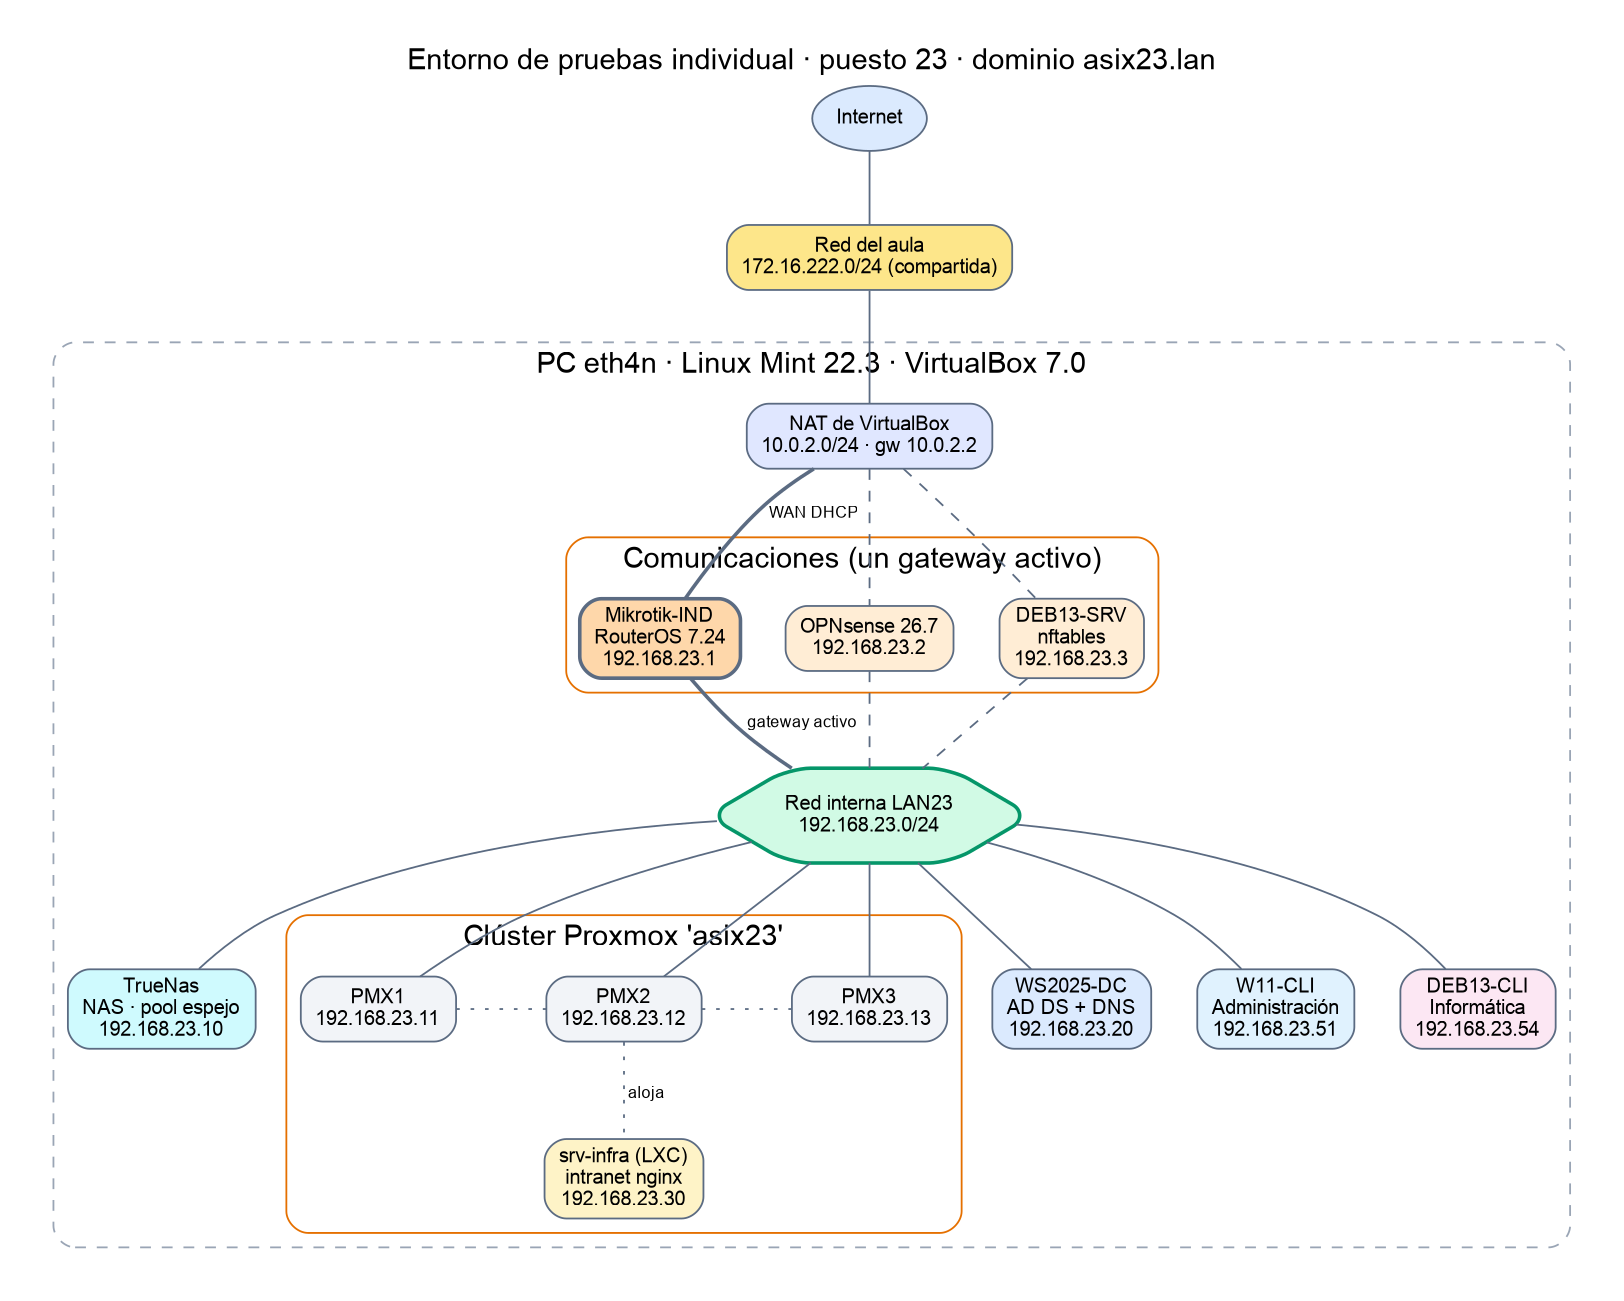
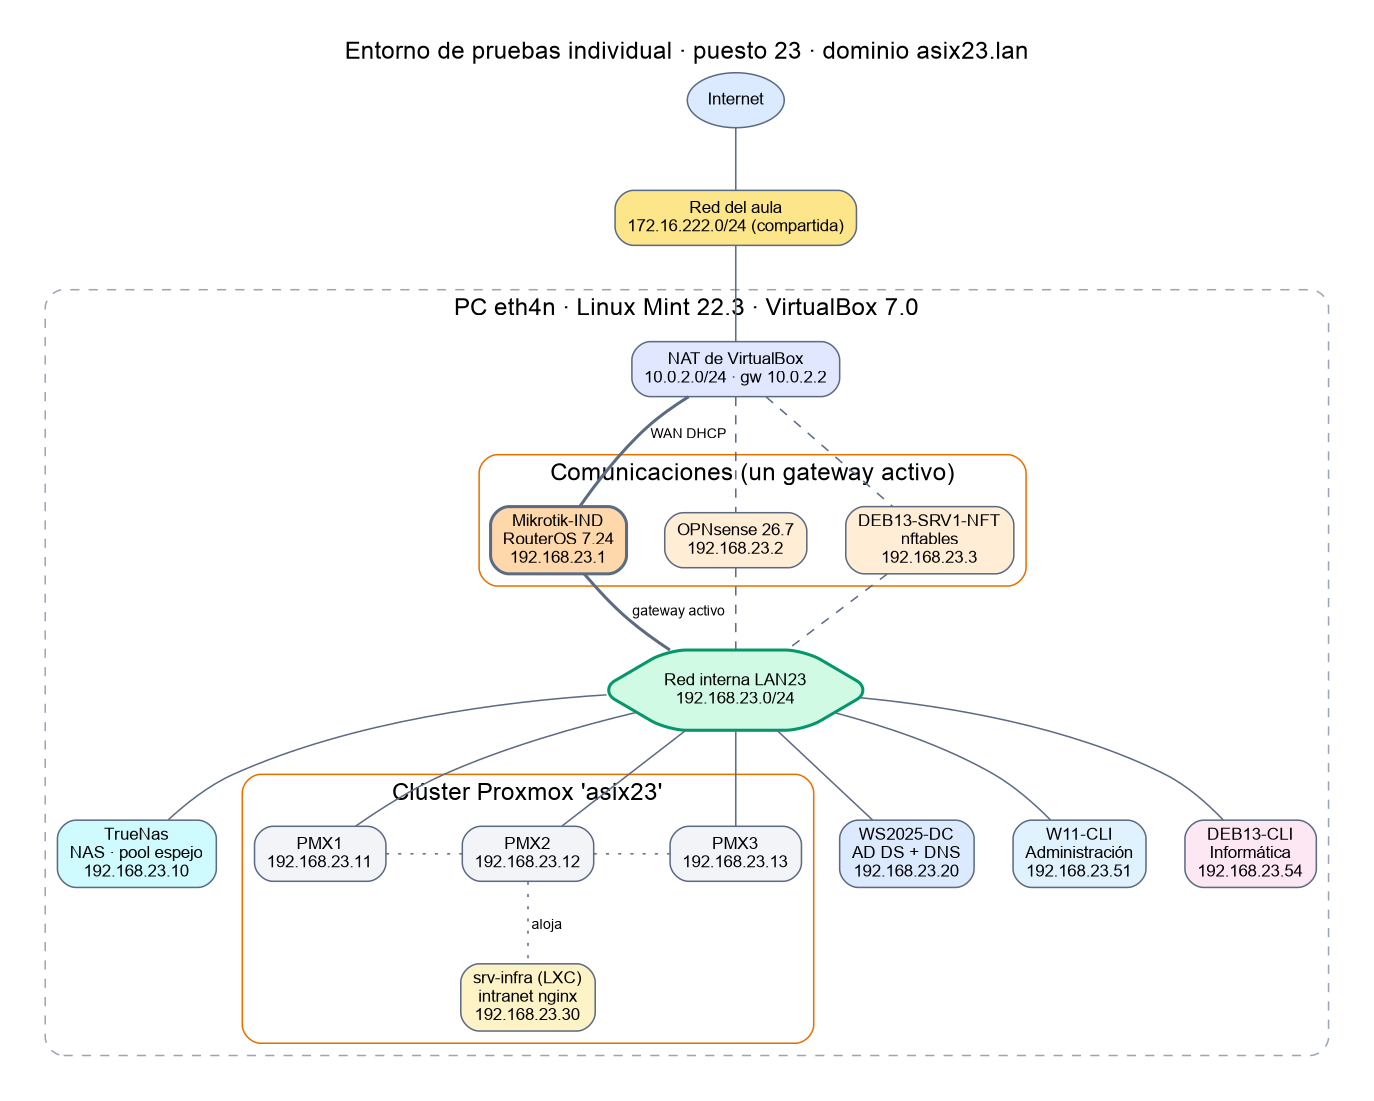
Plan de contingencia con tiempos reales; DEB13-SRV pasa a DEB13-SRV1-NFT y nuevas DEB13-SRV2/SRV3 en el direccionamiento

diff --git a/docs/09-contingencia.md b/docs/09-contingencia.md
@@ -1,11 +1,63 @@
 # 09 · Plan de contingencia
 
-Estado: ⬜ pendiente
+Estado: 🟡 en curso (falta añadir el tiempo real del fallo de disco del RAID, Tasca 6)
+
+## 1. Conceptos
+
+| Término | Qué significa | Ejemplo en mi sistema |
+|---|---|---|
+| **RTO** (*Recovery Time Objective*) | Tiempo máximo que puede estar parado un servicio | Internet: 5 min |
+| **RPO** (*Recovery Point Objective*) | Cuántos datos (medidos en tiempo) se pueden perder como máximo | Configuración de los routers: 24 h (copia diaria) |
+| **Tiempo real** | Lo que **medimos** al provocar el fallo | MikroTik: 26 s sin Internet en el cliente |
+
+> **Pregunta probable de defensa:** *"¿Qué diferencia hay entre RTO y RPO?"* → El RTO mira **hacia delante** (¿cuánto tardo en volver a funcionar?) y el RPO **hacia atrás** (¿desde cuándo pierdo cambios?). Una copia diaria da un RPO de hasta 24 h aunque la recuperación tarde solo segundos.
+
+## 2. De dónde salen las copias
+
+| Origen | Qué se copia | Cuándo | Destino | RPO resultante |
+|---|---|---|---|---|
+| MikroTik, DEB13-SRV1-NFT, OPNsense | Configuración (`.backup`/`.rsc`, `/etc`, `config.xml`) | Cron de TrueNAS **diario 02:00** (`scripts/copia-configs.sh`) | NAS `/mnt/copias/configs/` | 24 h |
+| OPNsense (además) | Historial local de `config.xml` | **En cada cambio** | El propio OPNsense | ≈ 0 (último cambio) |
+| Proxmox (CT 100, VM 101) | Imagen completa (`vzdump`) | Tarea **diaria 02:30**, se guardan 3 | `nas-copias` (NFS del NAS) | 24 h |
+| WS2025-DC | Base de datos de AD + SYSVOL (`ntdsutil ifm`) | Manual (`scripts/windows/copia-ad.ps1`) | NAS `/mnt/copias/configs/ws2025-dc/` | Desde la última ejecución manual |
+| TrueNAS | Las propias copias | Siempre (pool **espejo** `copias`) | 2 discos | 0 frente a fallo de **un** disco |
+
+## 3. Escenarios
 
 | Escenario | Función afectada | RTO objetivo | RPO objetivo | Tiempo real | Pérdida real | ¿Probado o 🧪 simulado? |
 |---|---|---|---|---|---|---|
-| Cliente | | | | | | |
-| Servidor virtual | | | | | | |
-| Host | | | | | | |
-| Comunicaciones | | | | | | |
-| Almacenamiento | | | | | | |
+| **Comunicaciones** — MikroTik con la configuración borrada | Internet de toda la LAN | 5 min | 24 h | **26 s** sin servicio | 0 | ✅ Probado ([mikrotik §7](06-installacio/mikrotik.md)) |
+| **Comunicaciones** — DEB13-SRV1-NFT con nftables roto + reinicio | Internet (router alternativo) | 5 min | 24 h | **21 s** | 0 | ✅ Probado ([debian-srv §7](06-installacio/debian-srv.md)) |
+| **Comunicaciones** — OPNsense con una regla errónea | Internet (router alternativo) | 5 min | último cambio | **15 s** | 0 | ✅ Probado ([opnsense §8](06-installacio/opnsense.md)) |
+| **Comunicaciones** — router activo totalmente caído | Internet | 5 min | — | Cambio de gateway con `scripts/canvi-gw.sh` a `.2` o `.3` | 0 | ✅ Probado (gateways intercambiables, [04-disseny](04-disseny.md)) |
+| **Servidor virtual** — mantenimiento de un nodo Proxmox | Intranet (CT `srv-infra`) | 2 min | 0 | VM: **8 ms** de corte (migración en caliente) · CT: **~84 s** | 0 | ✅ Probado ([proxmox §8](06-installacio/proxmox.md)) |
+| **Servidor virtual** — se cae un nodo del clúster | Gestión del clúster | Inmediato | 0 | El clúster sigue con quórum **2 de 3** | 0 | ✅ Probado (quórum) · 🧪 restaurar la VM desde `vzdump` en otro nodo |
+| **Servidor virtual** — VM que no arranca (error en `fstab`) | Servidor Linux | 30 min | 0 | Diagnosticado y resuelto con el método síntoma → hipótesis → comprobación | 0 | ✅ Probado ([10-incidencies](10-incidencies.md)) |
+| **Servidor** — DC de Windows perdido | Inicio de sesión del dominio, DNS | 1 h | Última copia IFM | — | Cambios en AD desde la copia | 🧪 Simulado (copia IFM hecha y verificada en el NAS) |
+| **Cliente** — W11-CLI o DEB13-CLI estropeado | Puesto de un departamento | 1 h | 0 en datos del servidor | — | Solo lo guardado en local | 🧪 Simulado: reinstalar desde ISO y volver a unir al dominio; los datos viven en el servidor |
+| **Host** — el PC anfitrión se rompe | **Todo** el sistema (punto único de fallo) | 1 día | 24 h | — | Hasta 24 h | 🧪 Simulado: otro PC con VirtualBox + copias del NAS. En la empresa real: varios hosts físicos y el NAS fuera del host |
+| **Almacenamiento** — falla un disco del NAS | Copias de seguridad | 0 (sigue funcionando) | 0 | — | 0 | 🧪 Simulado: espejo `copias` (ZFS mirror) |
+| **Almacenamiento** — falla un disco de un RAID 1/5 | Datos del servidor de ficheros | 0 (modo degradado) | 0 | ⬜ Pendiente (Tasca 6, mdadm) | ⬜ | ⬜ Se probará |
+
+## 4. Procedimiento general ante un fallo
+
+1. **Detectar**: síntoma desde un cliente (`ping`, `curl`, no hay Internet, no inicia sesión…).
+2. **Aislar**: ¿es la red, el servidor o el cliente? `ping` al gateway → al servidor → a Internet.
+3. **Recuperar** con la vía más rápida que exista:
+   - Copia **local** si la hay (historial de OPNsense, `copia-nas.backup` en el MikroTik).
+   - Si no, copia del **NAS**.
+   - Si el equipo no vuelve: **router alternativo** (`canvi-gw.sh`) o **migrar** el servicio a otro nodo.
+4. **Verificar** desde el cliente (Internet, servicio, inicio de sesión).
+5. **Documentar** en `10-incidencies.md`: hora, causa, solución y tiempo real.
+
+## 5. Lecciones aprendidas
+
+- **Una copia que no se puede alcanzar no sirve**: en el primer intento del MikroTik, la copia estaba en el NAS, pero al NAS se llegaba *a través* del propio router roto. Solución: guardar también una copia **en el propio equipo** y tener un camino alternativo (WAN).
+- **Un espejo no es una copia**: protege de un disco roto, no de un borrado o un ransomware.
+- **El host es el punto único de fallo** de todo el entorno de pruebas. En la empresa se reparte en varios equipos físicos (el clúster de 3 nodos y el NAS separados).
+
+## Preguntas probables de la defensa
+
+- *¿Por qué tu RPO es de 24 h si la recuperación tarda segundos?* → Porque la copia es diaria: si cambio algo a las 10:00 y el router muere a las 18:00, la última copia es la de las 02:00.
+- *¿Cómo bajarías el RPO?* → Copias más frecuentes o en cada cambio (como hace OPNsense con su historial).
+- *¿Qué escenario no has podido probar y por qué?* → La pérdida del host: rompería todo el entorno. Se explica cómo se haría.

diff --git a/docs/10-incidencies.md b/docs/10-incidencies.md
@@ -7,8 +7,8 @@ Registro de problemas reales que han aparecido al montar el entorno, con el mét
 | 1 | 17/11 | TrueNas | Al arrancar aparece el **instalador** de TrueNAS en vez del sistema | La ISO sigue conectada y el orden de arranque pone el DVD antes que el disco | El disco virtual ya ocupaba 3,5 GB → el sistema estaba instalado | Desconectar la ISO del lector (`storageattach ... --medium emptydrive`) | Arranca TrueNAS 25.10.7 desde el disco |
 | 2 | 17/11 | Mikrotik-IND | Mensaje *"ROUTER HAS NO SOFTWARE KEY — You have 21h…"* | RouterOS **x86** instalado desde ISO necesita licencia; sin ella es una demo de 24 h | Documentación de MikroTik + el propio mensaje: *"Turn off the device to stop the timer"* | Se mantiene la VM y **se apaga cuando no se usa**. Alternativa: CHR (licencia gratuita) | Router operativo; contador controlado |
 | 3 | 17/11 | Todas | `ping` a Internet desde las VMs no responde, pero sí funciona HTTPS | La NAT de VirtualBox no puede enviar ICMP porque el anfitrión no permite *ping sockets* sin privilegios | `sysctl net.ipv4.ping_group_range` = `1 0` (desactivado) en el anfitrión; DNS y `curl` sí funcionan | Usar `traceroute -T` (TCP). Solución definitiva (requiere sudo en el anfitrión): `sysctl -w net.ipv4.ping_group_range="0 2147483647"` | Conectividad demostrada por TCP |
-| 4 | 17/11 | DEB13-SRV | Tras pasar a LAN23, la WAN (`enp0s3`) no tiene IP y no hay Internet | El perfil de NetworkManager *Wired connection 1* se había quedado asociado a la otra tarjeta | `nmcli dev status`: `enp0s3` *desconectado*, `enp0s8` *obteniendo IP* | Perfil nuevo `WAN` (DHCP) en `enp0s3` y el antiguo renombrado a `LAN23` (IP fija) | Las dos interfaces con su IP |
-| 5 | 17/11 | DEB13-SRV / CLI | Al escribir comandos desde el anfitrión, `-` sale como `/` y `=` como `)` | La consola de texto usa teclado de EE. UU. y la herramienta tenía otra distribución | Escribir `a-b/c=d` y ver qué aparece en pantalla | Usar la distribución de EE. UU. al enviar teclas por `VBoxManage` | Comandos correctos |
+| 4 | 17/11 | DEB13-SRV1-NFT | Tras pasar a LAN23, la WAN (`enp0s3`) no tiene IP y no hay Internet | El perfil de NetworkManager *Wired connection 1* se había quedado asociado a la otra tarjeta | `nmcli dev status`: `enp0s3` *desconectado*, `enp0s8` *obteniendo IP* | Perfil nuevo `WAN` (DHCP) en `enp0s3` y el antiguo renombrado a `LAN23` (IP fija) | Las dos interfaces con su IP |
+| 5 | 17/11 | DEB13-SRV1-NFT / CLI | Al escribir comandos desde el anfitrión, `-` sale como `/` y `=` como `)` | La consola de texto usa teclado de EE. UU. y la herramienta tenía otra distribución | Escribir `a-b/c=d` y ver qué aparece en pantalla | Usar la distribución de EE. UU. al enviar teclas por `VBoxManage` | Comandos correctos |
 | 6 | 17/11 | WS2025-DC, W11-CLI | Pantalla negra *"Press any key to boot from CD or DVD…"* y después *"No bootable option"* | En UEFI, el instalador de Windows pide pulsar una tecla y nadie la pulsó | Captura de pantalla de la VM | Reiniciar la VM y enviar la tecla espacio repetidamente durante los primeros segundos | Instalación en marcha |
 | 7 | 17/11 | W11-CLI | El instalador se para en **"Clave de producto"** aunque es una instalación desatendida | El nuevo instalador de Windows 11 25H2 no lee igual el `autounattend.xml` de VirtualBox 7.0 | Captura: *"' ' no es un carácter válido"* | Borrar el campo y elegir *"No tengo clave de producto"* | La instalación continúa |
 | 8 | 17/11 | Anfitrión | `sudo` no funciona desde terminal | No hay terminal para pedir la contraseña | Error *"a terminal is required to read the password"* | Instalar `gh` sin sudo en `~/.local/bin`; lo que necesite root en el anfitrión lo ejecuta izan | `gh` 2.104.0 funcionando |

diff --git a/docs/04-disseny.md b/docs/04-disseny.md
@@ -21,7 +21,7 @@ flowchart TB
             subgraph COM["Comunicaciones (solo uno activo)"]
                 MK["Mikrotik-IND .1<br/>RouterOS"]
                 OPN["OPNsense .2"]
-                DEB["DEB13-SRV .3<br/>nftables"]
+                DEB["DEB13-SRV1-NFT .3<br/>nftables"]
             end
             NAS["TrueNas .10<br/>pool espejo 'copias'"]
             subgraph CL["Clúster Proxmox 'asix23'"]
@@ -60,7 +60,7 @@ Todo corre en **un solo equipo físico**: el portátil de clase (eth4n). Los "ca
  ┌──────────────────────────────────────────────────────────────┐
  │  NAT VBox ──[nic1]── Mikrotik-IND ──[nic2]──┐                 │
  │  NAT VBox ──[nic1]── OPNsense     ──[nic2]──┤                 │
- │  NAT VBox ──[nic1]── DEB13-SRV    ──[nic2]──┤                 │
+ │  NAT VBox ──[nic1]── DEB13-SRV1-NFT    ──[nic2]──┤                 │
  │                                             │                 │
  │                     ════ red interna LAN23 ═╪═══════════════  │
  │                     │      │      │      │      │      │      │
@@ -79,8 +79,8 @@ Todo corre en **un solo equipo físico**: el portátil de clase (eth4n). Los "ca
 | Mikrotik-IND | ether2 (LAN) | LAN23 | **192.168.23.1/24** | — | (servidor DNS para la LAN) | — | Fija |
 | OPNsense | em0 (WAN) | NAT | 10.0.2.15/24 | 10.0.2.2 | 10.0.2.3 | — | DHCP |
 | OPNsense | em1 (LAN) | LAN23 | **192.168.23.2/24** | — | Unbound (reenvío) | — | Fija |
-| DEB13-SRV | enp0s3 (WAN) | NAT | 10.0.2.15/24 | 10.0.2.2 | 10.0.2.3 | — | DHCP |
-| DEB13-SRV | enp0s8 (LAN) | LAN23 | **192.168.23.3/24** | — (`never-default`) | — | — | Fija |
+| DEB13-SRV1-NFT | enp0s3 (WAN) | NAT | 10.0.2.15/24 | 10.0.2.2 | 10.0.2.3 | — | DHCP |
+| DEB13-SRV1-NFT | enp0s8 (LAN) | LAN23 | **192.168.23.3/24** | — (`never-default`) | — | — | Fija |
 | TrueNas | enp0s3 | LAN23 | 192.168.23.10/24 | 192.168.23.1 | 192.168.23.1 | asix23.lan | Fija |
 | PMX1 | vmbr0 (nic0) | LAN23 | 192.168.23.11/24 | 192.168.23.1 | 192.168.23.1 | asix23.lan | Fija |
 | PMX2 | vmbr0 (nic0) | LAN23 | 192.168.23.12/24 | 192.168.23.1 | 192.168.23.1 | asix23.lan | Fija |

diff --git a/docs/05-recursos.md b/docs/05-recursos.md
@@ -10,7 +10,7 @@ Host de todas: **eth4n** (Linux Mint 22.3, Core Ultra 5 125H 14C/18T, 30 GiB RAM
 |---|---|---|---|---|---|---|---|
 | Mikrotik-IND | Comunicaciones · gateway .1 | RouterOS 7.24.5 x86 | 2 | 512 MB | 2 GB | NAT + LAN23 | BIOS |
 | OPNsense | Comunicaciones · .2 | OPNsense 26.7 | 2 | 2 GB | 20 GB | NAT + LAN23 | BIOS |
-| DEB13-SRV | Comunicaciones · .3 (nftables) | Debian 13 | 1 | 2 GB | 20 GB | NAT + LAN23 | BIOS |
+| DEB13-SRV1-NFT | Comunicaciones · .3 (nftables) | Debian 13 | 1 | 2 GB | 20 GB | NAT + LAN23 | BIOS |
 | TrueNas | NAS · .10 | TrueNAS SCALE 25.10.7 | 2 | 4 GB | 32 + 20 + 20 GB | LAN23 | BIOS |
 | PMX1 | Virtualización · nodo 1 · .11 | Proxmox VE 9.2 | 2 | 4 GB | 20 GB | LAN23 (promiscuo) | BIOS |
 | PMX2 | Virtualización · nodo 2 · .12 | Proxmox VE 9.2 | 2 | 4 GB | 32 GB | LAN23 (promiscuo) | BIOS |
@@ -41,7 +41,7 @@ Discos: **VDI de reserva dinámica** (solo ocupan lo que se usa). Ocupación rea
 | **A · Comunicaciones** | router activo (.1, .2 o .3) + DEB13-CLI + TrueNas | 9–10,5 GB | Pruebas de gateway, NAT, cortafuegos, copias |
 | **B · Dominio** | Mikrotik-IND + WS2025-DC + W11-CLI + TrueNas | 12,5 GB | AD DS, DNS, unión al dominio |
 | **C · Clúster** | Mikrotik-IND + PMX1 + PMX2 + TrueNas | 12,5 GB | Clúster, migraciones, contenedor |
-| **D · RAID / rendimiento** | Mikrotik-IND + DEB13-SRV + TrueNas | 6,5 GB | RAID con mdadm, medidas |
+| **D · RAID / rendimiento** | Mikrotik-IND + DEB13-SRV1-NFT + TrueNas | 6,5 GB | RAID con mdadm, medidas |
 | **E · Máximo** | Se van encendiendo hasta que el host sufre | — | Tasca 7: medir el límite real |
 
 ## Cuello de botella observado

diff --git a/README.md b/README.md
@@ -43,7 +43,7 @@ flowchart TB
     INET((🌍 Internet)) --- NAT[NAT de VirtualBox<br/>WAN por DHCP 10.0.2.15]
     NAT ==> MK[🔀 Mikrotik-IND<br/>RouterOS · <b>.1</b><br/>gateway activo]
     NAT -.-> OPN[🛡 OPNsense<br/><b>.2</b>]
-    NAT -.-> DEB[🐧 DEB13-SRV<br/>nftables · <b>.3</b>]
+    NAT -.-> DEB[🐧 DEB13-SRV1-NFT<br/>nftables · <b>.3</b>]
     MK ==> SW{{"🔌 LAN23 · 192.168.23.0/24"}}
     OPN -.-> SW
     DEB -.-> SW
@@ -69,7 +69,7 @@ flowchart TB
 |---|---|---|:---:|
 | `192.168.23.1` | Mikrotik-IND | RouterOS 7.24.5 · gateway por defecto · NAT + cortafuegos | ✅ |
 | `192.168.23.2` | OPNsense | OPNsense 26.7 · comunicaciones alternativo | ✅ |
-| `192.168.23.3` | DEB13-SRV | Debian 13 + nftables · comunicaciones alternativo | ✅ |
+| `192.168.23.3` | DEB13-SRV1-NFT | Debian 13 + nftables · comunicaciones alternativo | ✅ |
 | `192.168.23.10` | TrueNas | TrueNAS SCALE 25.10.7 · destino de las copias | ✅ |
 | `192.168.23.11` | PMX1 | Proxmox VE 9.2 · nodo 1 del clúster `asix23` | ✅ |
 | `192.168.23.12` | PMX2 | Proxmox VE 9.2 · nodo 2 del clúster `asix23` | ✅ |

diff --git a/docs/06-installacio/README.md b/docs/06-installacio/README.md
@@ -6,7 +6,7 @@
 |---|---|---|
 | MikroTik RouterOS (Mikrotik-IND) | [mikrotik.md](mikrotik.md) | ✅ |
 | OPNsense | [opnsense.md](opnsense.md) | ⬜ |
-| Debian SRV nftables (DEB13-SRV) | [debian-srv.md](debian-srv.md) | ✅ |
+| Debian SRV nftables (DEB13-SRV1-NFT) | [debian-srv.md](debian-srv.md) | ✅ |
 | TrueNAS | [truenas.md](truenas.md) | ✅ |
 | Proxmox VE (clúster PMX1 + PMX2) | [proxmox.md](proxmox.md) | ✅ |
 | Windows Server 2025 (WS2025-DC) | [windows-server.md](windows-server.md) | ✅ |

diff --git a/docs/06-installacio/debian-srv.md b/docs/06-installacio/debian-srv.md
@@ -2,7 +2,7 @@
 
 | Dato | Valor |
 |---|---|
-| VM en VirtualBox | `DEB13-SRV` (grupo `ISO-INDV`) |
+| VM en VirtualBox | `DEB13-SRV1-NFT` (antes `DEB13-SRV`) (grupo `ISO-INDV`) |
 | Sistema | Debian GNU/Linux **13 (trixie)**, kernel 6.12.117, con escritorio GNOME |
 | Función | Servidor de comunicaciones alternativo: router + NAT + cortafuegos `nftables` |
 | Recursos | 1 vCPU · 2 GB RAM · disco 20 GB |
